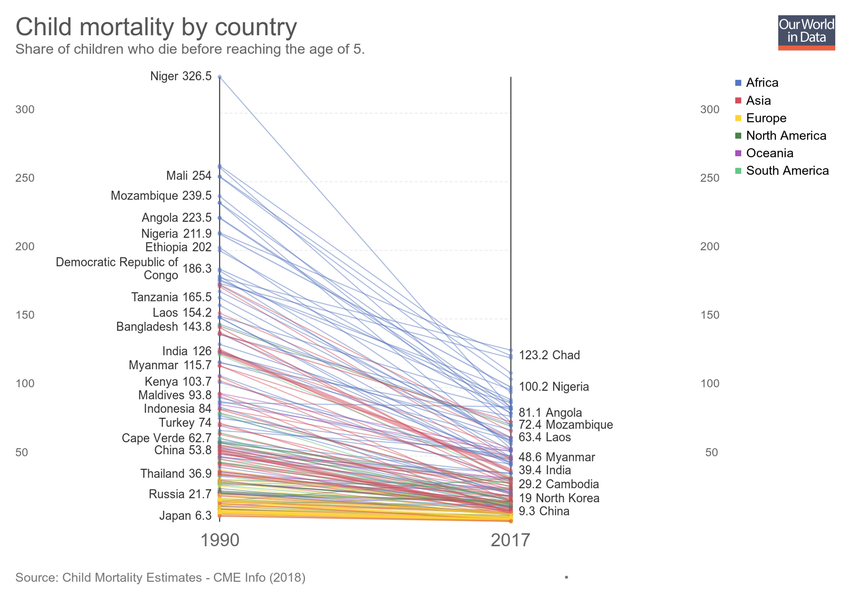
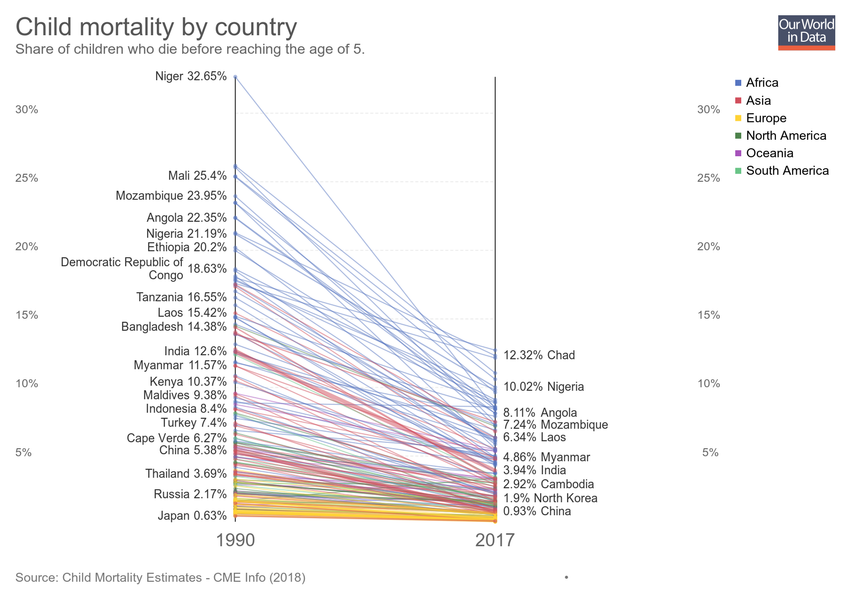
Updating chart child-mortality-by-country

diff --git a/grapher/hiv-expenditure.html b/grapher/hiv-expenditure.html
@@ -1,4 +1,4 @@
-<!doctype html><html><head><meta name="viewport" content="width=device-width, initial-scale=1" /><title>HIV expenditure - Our World in Data</title><meta name="description" content="Country-reported HIV expenditure, measured in current US$ per year. The year of reported expenditure varies by country; this information can be found by hovering over a given country." /><link rel="canonical" href="https://ourworldindata.org/grapher/hiv-expenditure" /><meta property="fb:app_id" content="1149943818390250" /><meta property="og:url" content="https://ourworldindata.org/grapher/hiv-expenditure" /><meta property="og:title" content="HIV expenditure" /><meta property="og:description" content="Country-reported HIV expenditure, measured in current US$ per year. The year of reported expenditure varies by country; this information can be found by hovering over a given country." /><meta property="og:image" content="https://ourworldindata.org/grapher/exports/hiv-expenditure.png?v=1" /><meta property="og:image:width" content="850" /><meta property="og:image:height" content="600" /><meta property="og:site_name" content="Our World in Data" /><meta name="twitter:card" content="summary_large_image" /><meta name="twitter:site" content="@OurWorldInData" /><meta name="twitter:creator" content="@OurWorldInData" /><meta name="twitter:title" content="HIV expenditure" /><meta name="twitter:description" content="Country-reported HIV expenditure, measured in current US$ per year. The year of reported expenditure varies by country; this information can be found by hovering over a given country." /><meta name="twitter:image" content="https://ourworldindata.org/grapher/exports/hiv-expenditure.png?v=1" /><style>
+<!doctype html><html><head><meta name="viewport" content="width=device-width, initial-scale=1" /><title>HIV expenditure on prevention and treatment - Our World in Data</title><meta name="description" content="Total expenditure on HIV/AIDS prevention and treatment, measured in US$." /><link rel="canonical" href="https://ourworldindata.org/grapher/hiv-expenditure" /><meta property="fb:app_id" content="1149943818390250" /><meta property="og:url" content="https://ourworldindata.org/grapher/hiv-expenditure" /><meta property="og:title" content="HIV expenditure on prevention and treatment" /><meta property="og:description" content="Total expenditure on HIV/AIDS prevention and treatment, measured in US$." /><meta property="og:image" content="https://ourworldindata.org/grapher/exports/hiv-expenditure.png?v=1" /><meta property="og:image:width" content="850" /><meta property="og:image:height" content="600" /><meta property="og:site_name" content="Our World in Data" /><meta name="twitter:card" content="summary_large_image" /><meta name="twitter:site" content="@OurWorldInData" /><meta name="twitter:creator" content="@OurWorldInData" /><meta name="twitter:title" content="HIV expenditure on prevention and treatment" /><meta name="twitter:description" content="Total expenditure on HIV/AIDS prevention and treatment, measured in US$." /><meta name="twitter:image" content="https://ourworldindata.org/grapher/exports/hiv-expenditure.png?v=1" /><style>
         html, body {
             height: 100%;
             margin: 0;
@@ -20,8 +20,8 @@
         }
     </style><noscript><style>
                     figure { display: none !important; }
-                </style></noscript><link rel="stylesheet" href="https://ourworldindata.org/grapher/assets/commons.bundle.9b8c6ed3f71d7662b5f2.css" /><link rel="preload" href="/grapher/data/variables/85855.json?v=1" as="fetch" crossorigin /></head><body class="singleChart"><figure data-grapher-src="/grapher/hiv-expenditure"></figure><noscript id="fallback"><img src="/grapher/exports/hiv-expenditure.svg" /><p>Interactive visualization requires JavaScript</p></noscript><script src="https://cdn.polyfill.io/v2/polyfill.min.js?features=es6,fetch"></script><script src="https://ourworldindata.org/grapher/assets/commons.bundle.9b8c6ed3f71d7662b5f2.js"></script><script src="https://ourworldindata.org/grapher/assets/charts.bundle.9b8c6ed3f71d7662b5f2.js"></script><script>
-        var jsonConfig = {"map":{"projection":"World","targetYear":2016,"variableId":85855,"equalSizeBins":true,"timeTolerance":5,"baseColorScheme":"Purples","isManualBuckets":true,"colorSchemeLabels":[],"colorSchemeValues":[50000000,100000000,200000000,300000000,400000000,500000000,750000000,1000000000],"defaultProjection":"World","colorSchemeMinValue":0,"customNumericColors":[null,null],"customCategoryColors":{},"customCategoryLabels":{},"customHiddenCategories":{}},"tab":"map","slug":"hiv-expenditure","type":"LineChart","title":"HIV expenditure","xAxis":{"scaleType":"linear"},"yAxis":{"min":0,"scaleType":"linear"},"version":1,"subtitle":"Country-reported HIV expenditure, measured in current US$ per year. The year of reported expenditure varies by country; this information can be found by hovering over a given country.","hasMapTab":true,"stackMode":"absolute","dimensions":[{"display":{},"property":"y","variableId":85855}],"isAutoSlug":true,"sourceDesc":"UNAIDS","hasChartTab":false,"isPublished":true,"selectedData":[{"index":0,"entityId":84},{"index":0,"entityId":233},{"index":0,"entityId":229},{"index":0,"entityId":15},{"index":0,"entityId":16},{"index":0,"entityId":17},{"index":0,"entityId":19},{"index":0,"entityId":20},{"index":0,"entityId":21},{"index":0,"entityId":22},{"index":0,"entityId":219},{"index":0,"entityId":23},{"index":0,"entityId":25},{"index":0,"entityId":26},{"index":0,"entityId":28},{"index":0,"entityId":29},{"index":0,"entityId":30},{"index":0,"entityId":4},{"index":0,"entityId":31},{"index":0,"entityId":32},{"index":0,"entityId":34},{"index":0,"entityId":35},{"index":0,"entityId":36},{"index":0,"entityId":37},{"index":0,"entityId":39},{"index":0,"entityId":40},{"index":0,"entityId":41},{"index":0,"entityId":18581},{"index":0,"entityId":42},{"index":0,"entityId":43},{"index":0,"entityId":174},{"index":0,"entityId":173},{"index":0,"entityId":172},{"index":0,"entityId":171},{"index":0,"entityId":170},{"index":0,"entityId":169},{"index":0,"entityId":168},{"index":0,"entityId":166},{"index":0,"entityId":143}],"addCountryMode":"add-country","hideTitleAnnotation":true,"id":2293};
+                </style></noscript><link rel="stylesheet" href="https://ourworldindata.org/grapher/assets/commons.bundle.9b8c6ed3f71d7662b5f2.css" /><link rel="preload" href="/grapher/data/variables/96328.json?v=1" as="fetch" crossorigin /></head><body class="singleChart"><figure data-grapher-src="/grapher/hiv-expenditure"></figure><noscript id="fallback"><img src="/grapher/exports/hiv-expenditure.svg" /><p>Interactive visualization requires JavaScript</p></noscript><script src="https://cdn.polyfill.io/v2/polyfill.min.js?features=es6,fetch"></script><script src="https://ourworldindata.org/grapher/assets/commons.bundle.9b8c6ed3f71d7662b5f2.js"></script><script src="https://ourworldindata.org/grapher/assets/charts.bundle.9b8c6ed3f71d7662b5f2.js"></script><script>
+        var jsonConfig = {"map":{"projection":"World","targetYear":2015,"variableId":96328,"timeTolerance":3,"baseColorScheme":"YlGnBu","isManualBuckets":true,"colorSchemeLabels":[],"colorSchemeValues":[50000000,100000000,150000000,200000000,250000000,300000000,350000000,400000000],"defaultProjection":"World","colorSchemeMinValue":0,"customNumericColors":[null,null],"customCategoryColors":{},"customCategoryLabels":{},"customHiddenCategories":{}},"tab":"map","slug":"hiv-expenditure","type":"LineChart","title":"HIV expenditure on prevention and treatment","xAxis":{"scaleType":"linear"},"yAxis":{"min":0,"scaleType":"linear"},"version":1,"subtitle":"Total expenditure on HIV/AIDS prevention and treatment, measured in US$.","hasMapTab":true,"stackMode":"absolute","dimensions":[{"display":{"shortUnit":"$"},"property":"y","variableId":96328}],"hasChartTab":true,"isPublished":true,"selectedData":[{"index":0,"entityId":123},{"index":0,"entityId":237},{"index":0,"entityId":95}],"addCountryMode":"add-country","id":2488};
         var figure = document.getElementsByTagName("figure")[0];
         try {
             window.App = {};

diff --git a/grapher/child-mortality-by-country.html b/grapher/child-mortality-by-country.html
@@ -1,4 +1,4 @@
-<!doctype html><html><head><meta name="viewport" content="width=device-width, initial-scale=1" /><title>Child mortality by country - Our World in Data</title><meta name="description" content="Share of children who die before reaching the age of 5." /><link rel="canonical" href="https://ourworldindata.org/grapher/child-mortality-by-country" /><meta property="fb:app_id" content="1149943818390250" /><meta property="og:url" content="https://ourworldindata.org/grapher/child-mortality-by-country" /><meta property="og:title" content="Child mortality by country" /><meta property="og:description" content="Share of children who die before reaching the age of 5." /><meta property="og:image" content="https://ourworldindata.org/grapher/exports/child-mortality-by-country.png?v=4" /><meta property="og:image:width" content="850" /><meta property="og:image:height" content="600" /><meta property="og:site_name" content="Our World in Data" /><meta name="twitter:card" content="summary_large_image" /><meta name="twitter:site" content="@OurWorldInData" /><meta name="twitter:creator" content="@OurWorldInData" /><meta name="twitter:title" content="Child mortality by country" /><meta name="twitter:description" content="Share of children who die before reaching the age of 5." /><meta name="twitter:image" content="https://ourworldindata.org/grapher/exports/child-mortality-by-country.png?v=4" /><style>
+<!doctype html><html><head><meta name="viewport" content="width=device-width, initial-scale=1" /><title>Child mortality by country - Our World in Data</title><meta name="description" content="Share of children who die before reaching the age of 5." /><link rel="canonical" href="https://ourworldindata.org/grapher/child-mortality-by-country" /><meta property="fb:app_id" content="1149943818390250" /><meta property="og:url" content="https://ourworldindata.org/grapher/child-mortality-by-country" /><meta property="og:title" content="Child mortality by country" /><meta property="og:description" content="Share of children who die before reaching the age of 5." /><meta property="og:image" content="https://ourworldindata.org/grapher/exports/child-mortality-by-country.png?v=5" /><meta property="og:image:width" content="850" /><meta property="og:image:height" content="600" /><meta property="og:site_name" content="Our World in Data" /><meta name="twitter:card" content="summary_large_image" /><meta name="twitter:site" content="@OurWorldInData" /><meta name="twitter:creator" content="@OurWorldInData" /><meta name="twitter:title" content="Child mortality by country" /><meta name="twitter:description" content="Share of children who die before reaching the age of 5." /><meta name="twitter:image" content="https://ourworldindata.org/grapher/exports/child-mortality-by-country.png?v=5" /><style>
         html, body {
             height: 100%;
             margin: 0;
@@ -20,8 +20,8 @@
         }
     </style><noscript><style>
                     figure { display: none !important; }
-                </style></noscript><link rel="stylesheet" href="https://ourworldindata.org/grapher/assets/commons.bundle.9b8c6ed3f71d7662b5f2.css" /><link rel="preload" href="/grapher/data/variables/201+72+123.json?v=4" as="fetch" crossorigin /></head><body class="singleChart"><figure data-grapher-src="/grapher/child-mortality-by-country"></figure><noscript id="fallback"><img src="/grapher/exports/child-mortality-by-country.svg" /><p>Interactive visualization requires JavaScript</p></noscript><script src="https://cdn.polyfill.io/v2/polyfill.min.js?features=es6,fetch"></script><script src="https://ourworldindata.org/grapher/assets/commons.bundle.9b8c6ed3f71d7662b5f2.js"></script><script src="https://ourworldindata.org/grapher/assets/charts.bundle.9b8c6ed3f71d7662b5f2.js"></script><script>
-        var jsonConfig = {"id":412,"map":{"projection":"World","targetYear":1980,"variableId":1478,"timeTolerance":1,"baseColorScheme":"BuGn","colorSchemeInvert":false,"colorSchemeLabels":[],"colorSchemeValues":[],"legendDescription":"","customColorsActive":false,"colorSchemeMinValue":0,"customNumericColors":[],"customCategoryColors":[],"customCategoryLabels":[],"customHiddenCategories":[]},"tab":"chart","note":"","slug":"child-mortality-by-country","type":"SlopeChart","title":"Child mortality by country","xAxis":{"scaleType":"linear"},"yAxis":{"scaleType":"linear","labelDistance":-10,"numDecimalPlaces":0,"canChangeScaleType":true},"maxTime":2017,"minTime":1990,"version":4,"subtitle":"Share of children who die before reaching the age of 5.","hasMapTab":false,"originUrl":"https://ourworldindata.org/child-mortality/","stackMode":null,"dimensions":[{"display":{},"property":"y","variableId":201},{"display":{"name":"Total population (Gapminder)","tolerance":5,"isProjection":false},"property":"size","variableId":72},{"display":{},"property":"color","variableId":123}],"entityType":"country","hideLegend":false,"hasChartTab":true,"isPublished":true,"selectedData":[],"internalNotes":"","addCountryMode":"add-country","hideRelativeToggle":false};
+                </style></noscript><link rel="stylesheet" href="https://ourworldindata.org/grapher/assets/commons.bundle.9b8c6ed3f71d7662b5f2.css" /><link rel="preload" href="/grapher/data/variables/201+72+123.json?v=5" as="fetch" crossorigin /></head><body class="singleChart"><figure data-grapher-src="/grapher/child-mortality-by-country"></figure><noscript id="fallback"><img src="/grapher/exports/child-mortality-by-country.svg" /><p>Interactive visualization requires JavaScript</p></noscript><script src="https://cdn.polyfill.io/v2/polyfill.min.js?features=es6,fetch"></script><script src="https://ourworldindata.org/grapher/assets/commons.bundle.9b8c6ed3f71d7662b5f2.js"></script><script src="https://ourworldindata.org/grapher/assets/charts.bundle.9b8c6ed3f71d7662b5f2.js"></script><script>
+        var jsonConfig = {"id":412,"map":{"projection":"World","targetYear":1980,"variableId":1478,"timeTolerance":1,"baseColorScheme":"BuGn","colorSchemeInvert":false,"colorSchemeLabels":[],"colorSchemeValues":[],"legendDescription":"","customColorsActive":false,"colorSchemeMinValue":0,"customNumericColors":[],"customCategoryColors":[],"customCategoryLabels":[],"customHiddenCategories":[]},"tab":"chart","note":"","slug":"child-mortality-by-country","type":"SlopeChart","title":"Child mortality by country","xAxis":{"scaleType":"linear"},"yAxis":{"scaleType":"linear","labelDistance":-10,"numDecimalPlaces":0,"canChangeScaleType":true},"maxTime":2017,"minTime":1990,"version":5,"subtitle":"Share of children who die before reaching the age of 5.","hasMapTab":false,"originUrl":"https://ourworldindata.org/child-mortality/","stackMode":null,"dimensions":[{"display":{"unit":"%","conversionFactor":0.1},"property":"y","variableId":201,"saveToVariable":true},{"display":{"name":"Total population (Gapminder)","tolerance":5,"isProjection":false},"property":"size","variableId":72},{"display":{},"property":"color","variableId":123}],"entityType":"country","hideLegend":false,"hasChartTab":true,"isPublished":true,"selectedData":[],"internalNotes":"","addCountryMode":"add-country","hideRelativeToggle":false};
         var figure = document.getElementsByTagName("figure")[0];
         try {
             window.App = {};
